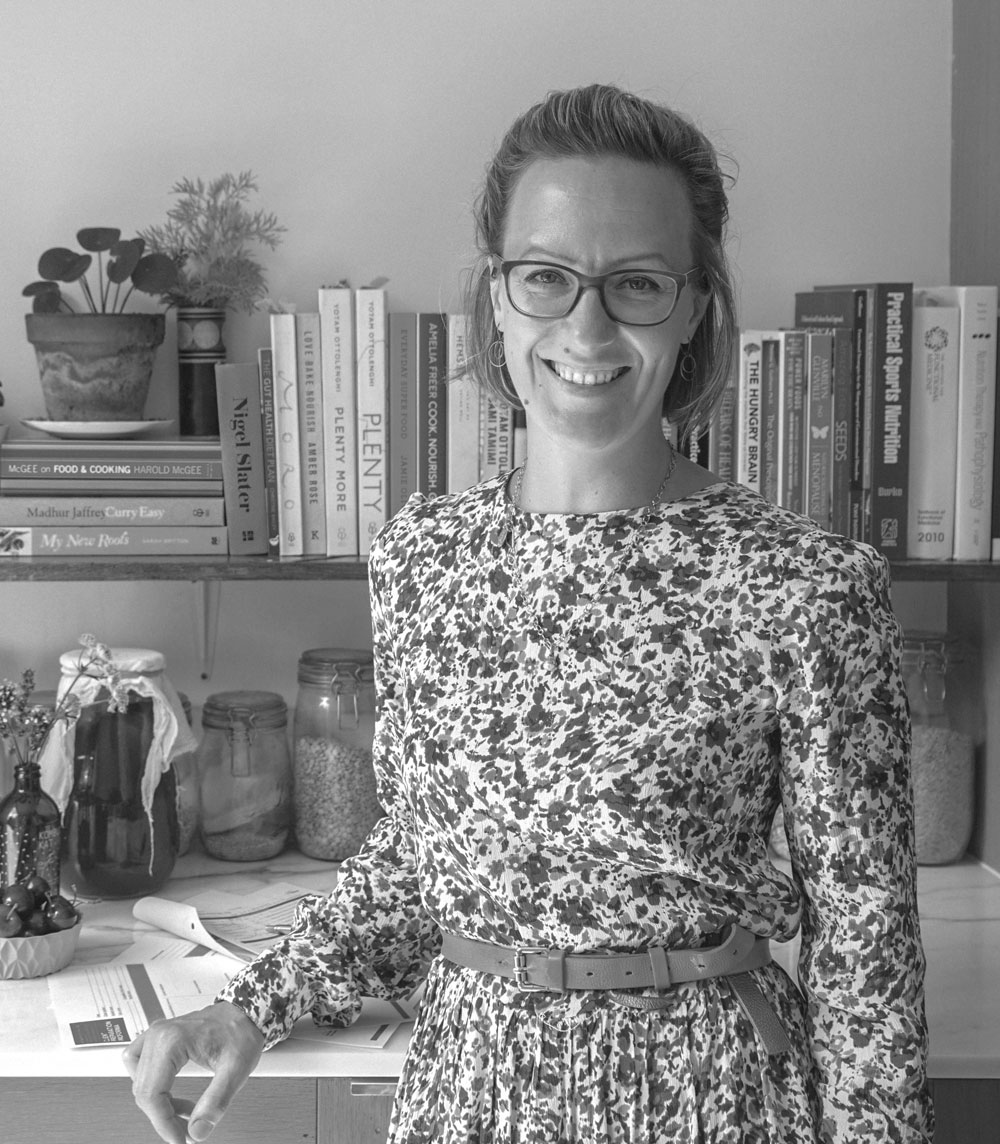
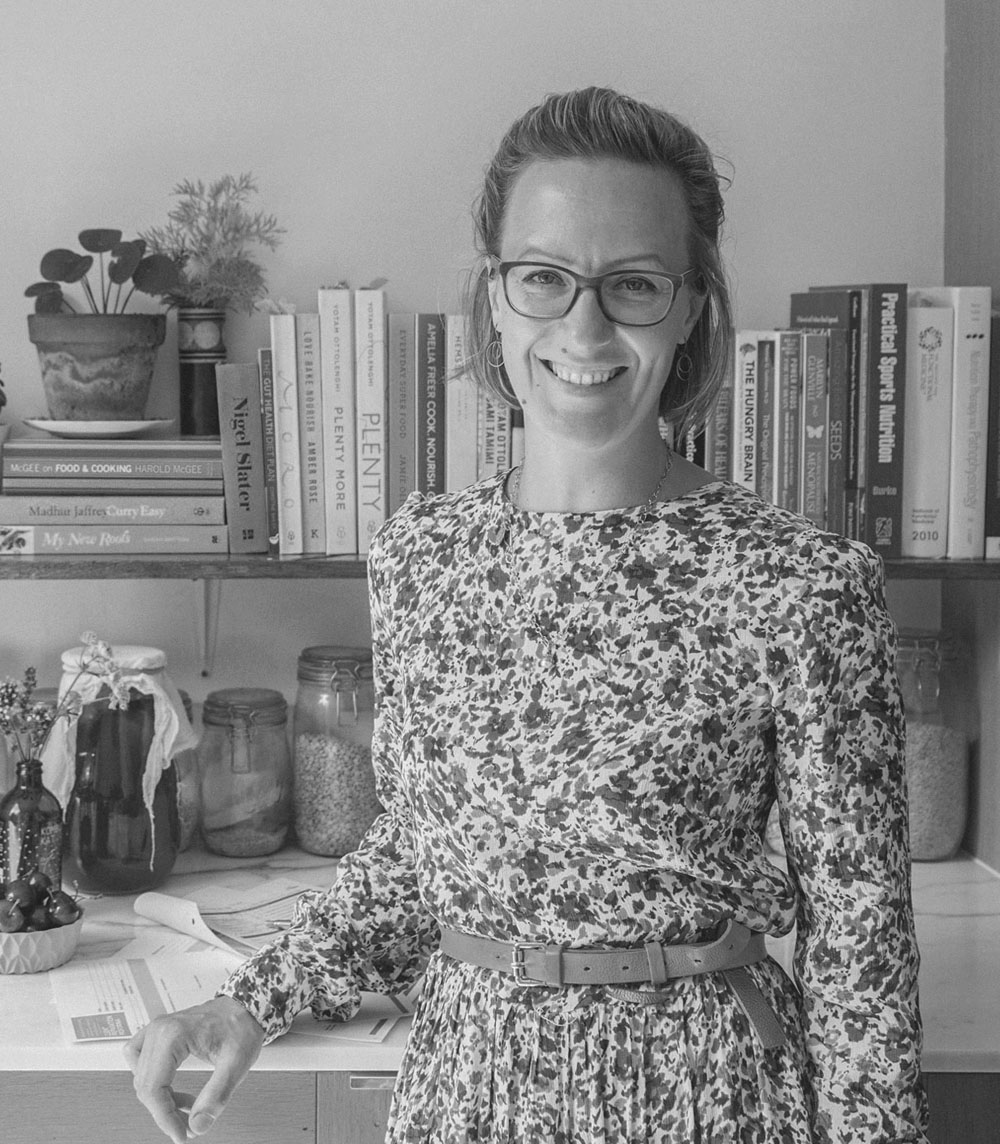
Asset changes.

diff --git a/src/About.js b/src/About.js
@@ -43,7 +43,7 @@ export class ConnectedAbout extends Component {
 
         <div className="about_ctr_content">
             <div>
-              <img className="about_img_harriet" src="/assets/harriet.jpg" alt="Harriet" />
+              <img className="about_img_harriet" src="/assets/tnb-about.jpg" alt="Harriet" />
 
               <div className="about_ctr_accreditations">
                 <img src="/assets/bant-logo.gif" onMouseOver={e => (e.currentTarget.src = "/assets/bant-logo-colour.gif")} onMouseOut={e => (e.currentTarget.src = "/assets/bant-logo.gif")} alt="Member of BANT" />

diff --git a/src/styles.css b/src/styles.css
@@ -543,7 +543,7 @@ a {
   position: relative;
   width: 100%;
   height: 90vh;
-  background-image: url("/assets/harriet.jpg");
+  background-image: url("/assets/tnb-about-mobile.jpg");
   background-position: top;
   background-size: cover; }
 

diff --git a/src/styles/partials/_about.scss b/src/styles/partials/_about.scss
@@ -51,7 +51,7 @@
   width: 100%;
   height: 90vh;
   background: {
-    image: url("/assets/harriet.jpg");
+    image: url("/assets/tnb-about-mobile.jpg");
     position: top;
     size: cover;
   }
